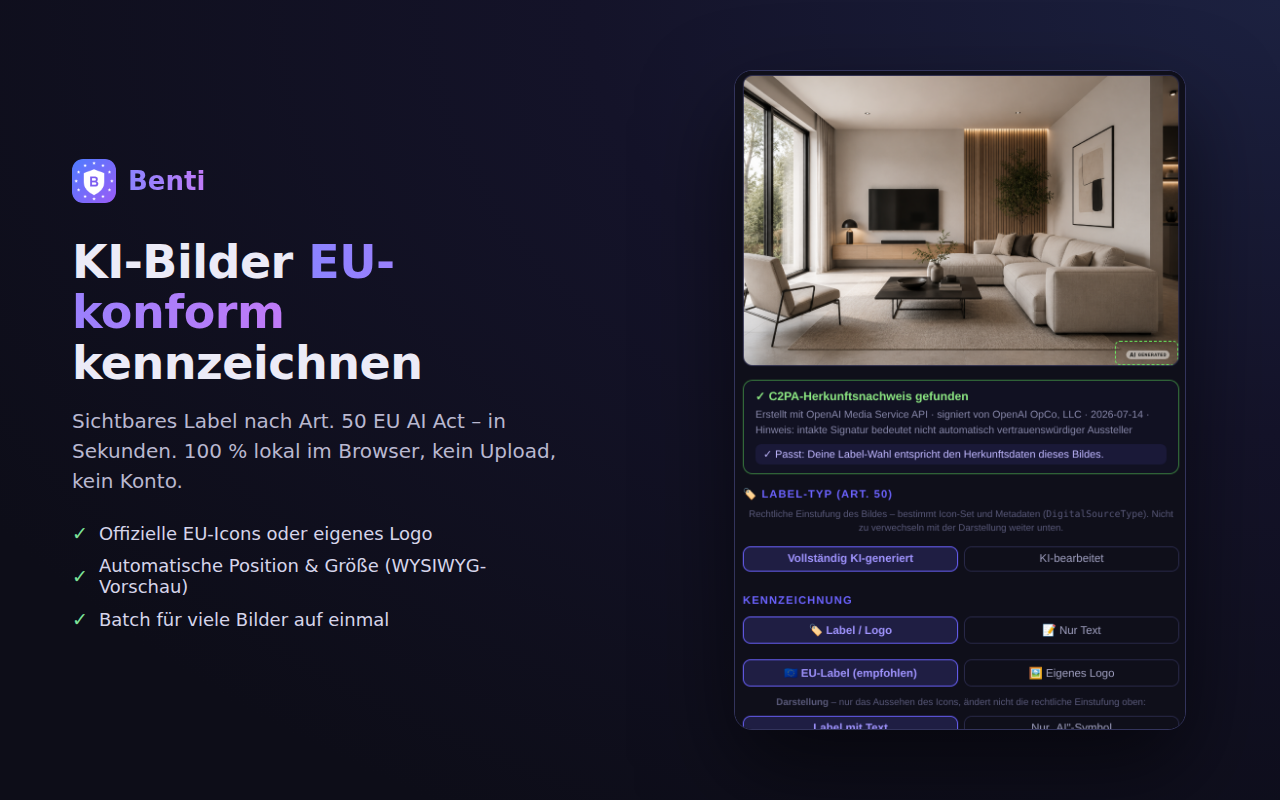
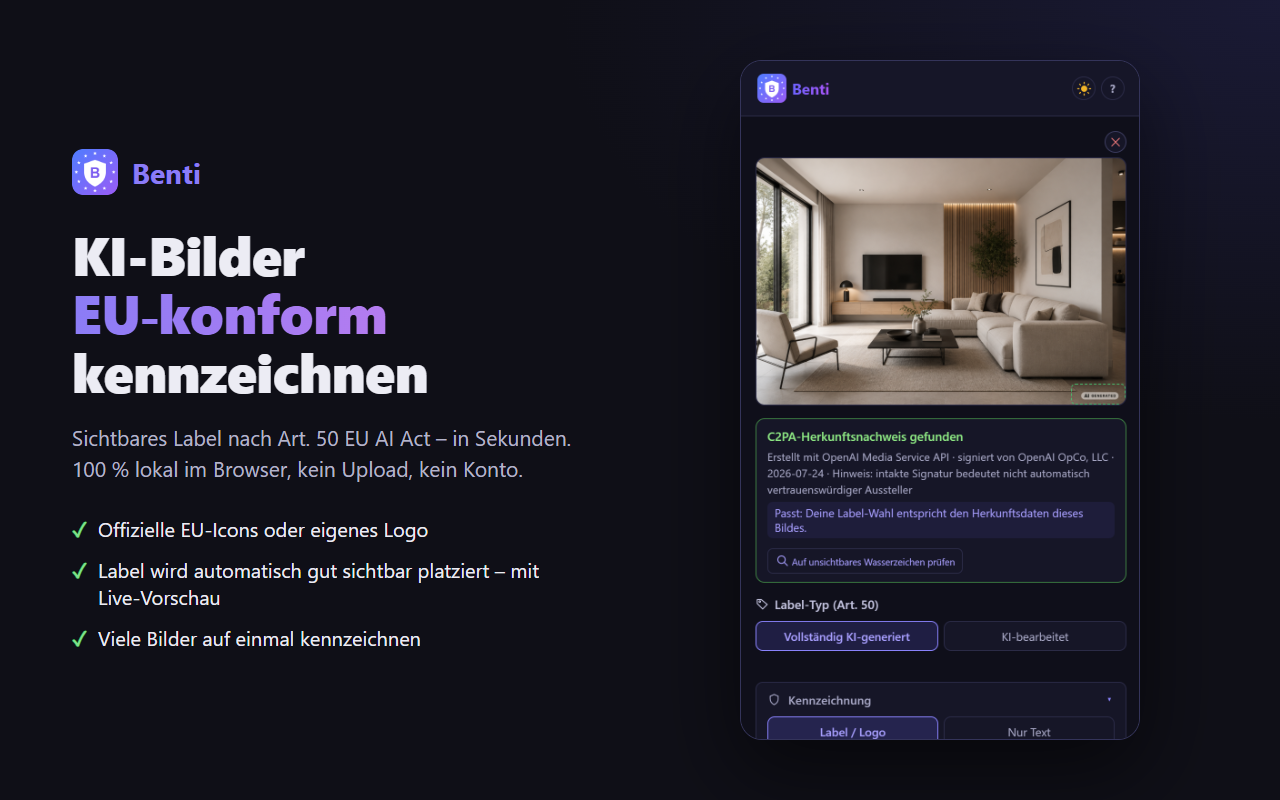
Store-Screenshots neu: aktuelle Oberflaeche, verstaendliche Texte
- Screenshot 1 zeigte noch die alte UI (Emojis, lange Erklaertexte).
  Alle drei neu aus echten Aufnahmen der Extension (echter C2PA-Fund).
- Fachbegriffe raus (WYSIWYG, C2PA/XMP/IPTC, DigitalSourceType) - in den
  Screenshots und in der Store-Beschreibung.
- Vorlage + Render-Skript in docs/marketing/quelle/ (Python + Edge/Chrome).
- "Ab dem 2. August 2026" -> "Seit dem ..." (Datum liegt in der Vergangenheit).

diff --git a/docs/marketing/quelle/store-vorlage.html b/docs/marketing/quelle/store-vorlage.html
@@ -1,0 +1,80 @@
+<!doctype html>
+<html lang="de">
+<head>
+<meta charset="utf-8">
+<title>Benti Store-Screenshot</title>
+<!--
+  Vorlage fuer die Chrome-Web-Store-Screenshots (1280 x 800).
+  Variante per URL-Parameter: store-vorlage.html?s=1 | 2 | 3
+  Rendern: python render-store.py (im selben Ordner)
+-->
+<style>
+  :root { --bg1:#0f0f17; --bg2:#1a1a35; --ink:#ececf4; --muted:#b4b4c8; --acc1:#8b7cf6; --acc2:#b57cf0; --ok:#7ee08a; }
+  * { box-sizing: border-box; margin: 0; padding: 0; }
+  html, body { width: 1280px; height: 800px; overflow: hidden; }
+  body { font-family: "Segoe UI", system-ui, sans-serif; color: var(--ink);
+         background: radial-gradient(1200px 700px at 100% 0%, var(--bg2), transparent 60%), var(--bg1); }
+  .wrap { display: grid; grid-template-columns: 560px 1fr; align-items: center; height: 100%; padding: 0 72px; gap: 40px; }
+  .brand { display: flex; align-items: center; gap: 14px; margin-bottom: 30px; }
+  .brand img { width: 46px; height: 46px; border-radius: 11px; }
+  .brand span { font-size: 28px; font-weight: 700; color: var(--acc1); }
+  h1 { font-size: 54px; line-height: 1.08; font-weight: 800; letter-spacing: -0.5px; margin-bottom: 22px; }
+  h1 em { font-style: normal; background: linear-gradient(90deg, var(--acc1), var(--acc2)); -webkit-background-clip: text; background-clip: text; color: transparent; }
+  .sub { font-size: 21px; line-height: 1.5; color: var(--muted); margin-bottom: 30px; }
+  ul { list-style: none; display: grid; gap: 14px; }
+  li { display: grid; grid-template-columns: 26px 1fr; font-size: 20px; line-height: 1.35; }
+  li::before { content: "✓"; color: var(--ok); font-weight: 700; }
+  .stage { display: flex; justify-content: center; align-items: center; }
+  .panel { width: 400px; height: 680px; overflow: hidden; border-radius: 22px; border: 1px solid #34345a;
+           box-shadow: 0 30px 80px rgba(0,0,0,.55); background: #13131c; }
+  .panel img { width: 400px; display: block; }
+  .panel.kurz { height: auto; }
+  .photo { width: 540px; border-radius: 20px; border: 1px solid #34345a; box-shadow: 0 30px 80px rgba(0,0,0,.55); display: block; }
+  .v { display: none; } body[data-s="1"] .v1, body[data-s="2"] .v2, body[data-s="3"] .v3 { display: contents; }
+</style>
+</head>
+<body>
+<div class="wrap">
+  <div>
+    <div class="brand"><img src="../../../icons/icon128.png" alt=""><span>Benti</span></div>
+
+    <div class="v v1">
+      <h1>KI-Bilder <em>EU&#8209;konform</em> kennzeichnen</h1>
+      <p class="sub">Sichtbares Label nach Art. 50 EU AI Act – in Sekunden. 100&nbsp;% lokal im Browser, kein Upload, kein Konto.</p>
+      <ul>
+        <li>Offizielle EU-Icons oder eigenes Logo</li>
+        <li>Label wird automatisch gut sichtbar platziert – mit Live&#8209;Vorschau</li>
+        <li>Viele Bilder auf einmal kennzeichnen</li>
+      </ul>
+    </div>
+
+    <div class="v v2">
+      <h1>Erkennt <em>KI&#8209;Herkunft</em> automatisch</h1>
+      <p class="sub">Prüft beim Laden, ob ein Bild Herkunftsdaten eines KI-Tools trägt – und schlägt gleich den passenden Label-Typ vor.</p>
+      <ul>
+        <li>Erkennt Herkunftsnachweise z.&nbsp;B. von ChatGPT</li>
+        <li>Passender Label-Typ wird vorgeschlagen</li>
+        <li>Ehrlich: Fehlende Daten heißen nie „kein KI-Bild“</li>
+      </ul>
+    </div>
+
+    <div class="v v3">
+      <h1><em>Sichtbar</em> + maschinenlesbar</h1>
+      <p class="sub">Sichtbares EU-Label im Bild – plus eine unsichtbare KI&#8209;Kennzeichnung in der Datei, die Programme und Plattformen auslesen können.</p>
+      <ul>
+        <li>PNG, JPEG, WebP und SVG</li>
+        <li>Copyright- und Kameradaten bleiben erhalten</li>
+        <li>Nachweis&#8209;Protokoll als Excel&#8209;Liste</li>
+      </ul>
+    </div>
+  </div>
+
+  <div class="stage">
+    <div class="v v1"><div class="panel"><img src="panel-oben.png" alt=""></div></div>
+    <div class="v v2"><div class="panel kurz"><img src="panel-herkunft.png" alt=""></div></div>
+    <div class="v v3"><img class="photo" src="../beispiel-gekennzeichnet.png" alt=""></div>
+  </div>
+</div>
+<script>document.body.dataset.s = new URLSearchParams(location.search).get('s') || '1';</script>
+</body>
+</html>

diff --git a/docs/marketing/quelle/render-store.py b/docs/marketing/quelle/render-store.py
@@ -1,0 +1,52 @@
+#!/usr/bin/env python3
+"""Rendert die drei Store-Screenshots (1280 x 800) aus store-vorlage.html.
+
+Braucht nur Python und Microsoft Edge oder Google Chrome (headless).
+Aufruf (aus diesem Ordner oder vom Repo-Root):  python docs/marketing/quelle/render-store.py
+
+Die Panel-Bilder (panel-oben.png, panel-herkunft.png) sind echte Aufnahmen der
+Extension-Oberflaeche (440 px breit, 2x). Nach UI-Aenderungen neu aufnehmen.
+"""
+import os
+import pathlib
+import shutil
+import subprocess
+import tempfile
+import time
+
+HERE = pathlib.Path(__file__).resolve().parent
+OUT = HERE.parent
+TEMPLATE = HERE / 'store-vorlage.html'
+NAMES = {1: 'store-1-kennzeichnen.png', 2: 'store-2-herkunft.png', 3: 'store-3-formate.png'}
+CANDIDATES = [
+    r'C:\Program Files (x86)\Microsoft\Edge\Application\msedge.exe',
+    r'C:\Program Files\Microsoft\Edge\Application\msedge.exe',
+    r'C:\Program Files\Google\Chrome\Application\chrome.exe',
+    '/Applications/Google Chrome.app/Contents/MacOS/Google Chrome',
+    shutil.which('chromium') or '', shutil.which('google-chrome') or '',
+]
+browser = next((c for c in CANDIDATES if c and os.path.exists(c)), None)
+if not browser:
+    raise SystemExit('Kein Edge/Chrome gefunden.')
+
+for s, name in NAMES.items():
+    # je Bild ein eigenes Profil: ein noch laufender Edge wuerde den Aufruf sonst
+    # uebernehmen und keinen Screenshot schreiben (ignore_cleanup_errors: Lock-Datei)
+    with tempfile.TemporaryDirectory(ignore_cleanup_errors=True) as prof:
+        target = OUT / name
+        if target.exists():
+            target.unlink()
+        subprocess.run([browser, '--headless=new', '--hide-scrollbars', '--no-first-run',
+                        f'--user-data-dir={prof}', '--force-device-scale-factor=1',
+                        '--window-size=1280,800', '--virtual-time-budget=3000',
+                        f'--screenshot={target}', TEMPLATE.as_uri() + f'?s={s}'],
+                       check=True, stdout=subprocess.DEVNULL, stderr=subprocess.DEVNULL)
+        # Edge schreibt die Datei unter Windows teils erst nach dem Rueckkehren
+        for _ in range(100):
+            if target.exists() and target.stat().st_size > 0:
+                break
+            time.sleep(0.2)
+        else:
+            raise SystemExit('Screenshot wurde nicht erzeugt: ' + name)
+        time.sleep(0.5)
+        print('gerendert', target.relative_to(OUT.parent.parent))

diff --git a/docs/STORE-LISTING.md b/docs/STORE-LISTING.md
@@ -19,7 +19,7 @@ Stand: 2026-11-13 (Funktionsumfang v0.7) · Alle Texte sind einreichfertig formu
 
 **Ausführliche Beschreibung:**
 ```
-Ab dem 2. August 2026 verlangt der EU AI Act (Artikel 50), dass KI-generierte
+Seit dem 2. August 2026 verlangt der EU AI Act (Artikel 50), dass KI-generierte
 Inhalte transparent gekennzeichnet werden. Benti macht das für Bilder
 einfach: Bild laden, Label-Typ wählen, fertig.
 
@@ -28,25 +28,25 @@ einfach: Bild laden, Label-Typ wählen, fertig.
   ist, aber das Motiv nicht stört
 ✔ Automatische Schwarz/Weiß-Wahl je nach Bildhelligkeit
 ✔ Eigenes Logo als Alternative zum EU-Icon
-✔ Batch-Verarbeitung für viele Bilder auf einmal
+✔ Viele Bilder auf einmal kennzeichnen
 ✔ Screenshot direkt mit Strg+V einfügen
-✔ Compliance-Protokoll: Jede Kennzeichnung wird lokal dokumentiert und ist
-  als CSV exportierbar – der Audit-Nachweis fällt nebenbei ab
-✔ Herkunfts-Check: Zeigt beim Laden an, ob ein Bild C2PA Content
-  Credentials oder KI-Metadaten trägt – und schlägt den passenden
+✔ Nachweis-Protokoll: Jede Kennzeichnung wird lokal dokumentiert und lässt
+  sich als Excel-Liste exportieren – der Nachweis fällt nebenbei ab
+✔ Herkunfts-Check: Zeigt beim Laden an, ob ein Bild Herkunftsdaten
+  eines KI-Tools trägt (z. B. von ChatGPT) – und schlägt den passenden
   Label-Typ automatisch vor
-✔ Maschinenlesbar: schreibt beim Export den IPTC-"DigitalSourceType" in
-  die Metadaten – vorhandene Angaben wie Copyright und EXIF bleiben erhalten
-✔ PNG, JPEG und WebP mit Qualitätsstufen, DPI-Angabe und Ausgabeziel-
-  Vorgaben (Social, Web, Print, Mobile) inkl. Lesbarkeits-Prüfung
-✔ SVG bleibt Vektor: Das EU-Icon wird als Vektor eingebettet, nichts wird
-  gerastert
+✔ Maschinenlesbar: Zusätzlich zum sichtbaren Label wird eine unsichtbare
+  KI-Kennzeichnung in die Datei geschrieben, die Programme und Plattformen
+  auslesen können – Copyright- und Kameradaten bleiben dabei erhalten
+✔ PNG, JPEG und WebP in wählbarer Qualität – mit Vorgaben für Social
+  Media, Web, Druck und Mobil, damit das Label überall lesbar bleibt
+✔ SVG-Grafiken bleiben in jeder Größe gestochen scharf – samt Label
 ✔ Eigene Dateinamen-Muster (z. B. {name}_{date}) und frei wählbarer
   Ablageordner
 ✔ Team-Vorlagen: Einstellungen als Datei exportieren und an Kolleg:innen
   weitergeben – alle kennzeichnen einheitlich
-✔ Optional (experimentell): unsichtbares Wasserzeichen, das auch das
-  Entfernen der Metadaten übersteht
+✔ Optional (experimentell): unsichtbares Wasserzeichen, das selbst dann
+  erhalten bleibt, wenn die Datei-Informationen entfernt werden
 
 🔒 Datenschutz per Architektur: Alle Berechnungen laufen lokal in Ihrem
 Browser. Kein Bild verlässt jemals Ihren Rechner, kein Konto, keine Werbung,

diff --git a/docs/marketing/README.md b/docs/marketing/README.md
@@ -6,8 +6,14 @@ Fertige Grafiken für die Chrome-Web-Store-Einreichung (Dark-Design).
 | Datei | Zeigt |
 |---|---|
 | `store-1-kennzeichnen.png` | Kernnutzen: Bild geladen + EU-Label-Vorschau + Herkunfts-Check |
-| `store-2-herkunft.png` | Automatische C2PA-/KI-Herkunftserkennung („signiert von OpenAI OpCo, LLC") |
+| `store-2-herkunft.png` | Automatische KI-Herkunftserkennung („signiert von OpenAI OpCo, LLC") |
 | `store-3-formate.png` | Ergebnis mit sichtbarem EU-Label + Formate/Metadaten/Protokoll |
+
+**Neu erzeugen** (13.11.2026 eingeführt): Texte in `quelle/store-vorlage.html` ändern, dann
+`python docs/marketing/quelle/render-store.py` – braucht nur Python + Edge/Chrome.
+`quelle/panel-oben.png` und `quelle/panel-herkunft.png` sind echte Aufnahmen der
+Extension (440 px Side-Panel-Breite, 2-fach) mit echtem C2PA-Fund; nach UI-Änderungen neu aufnehmen.
+Texte bewusst ohne Fachbegriffe (kein C2PA/XMP/IPTC/WYSIWYG) – Zielgruppe sind Nicht-Techniker.
 
 ## Weitere Assets
 | Datei | Zweck |
@@ -18,7 +24,5 @@ Fertige Grafiken für die Chrome-Web-Store-Einreichung (Dark-Design).
 
 ## Hinweise
 - **Store-Icon** (128×128) ist bereits in `icons/icon128.png`.
-- Der C2PA-Nachweis in `store-2` gibt die **echte** Extension-Ausgabe wieder
-  (die WASM-Engine läuft in der headless-Render-Umgebung nicht, daher wurde der
-  bereits verifizierte Text originalgetreu reproduziert).
-- Erzeugt mit `scripts/` bzw. dem Render-Setup; Motiv: eines der drei Originale.
+- Der C2PA-Nachweis in den Screenshots ist die **echte** Ausgabe der Extension (nicht nachgestellt).
+- Motiv: `Wohnzimmer GPT.png` (Original mit intakten C2PA-Metadaten).

diff --git a/README.md b/README.md
@@ -33,7 +33,7 @@ Geplant: **Web-App** (identische Codebasis, GitHub Pages) sowie eine downscale-f
 
 ## Rechtlicher Hinweis
 
-Dieses Tool unterstützt die sichtbare Kennzeichnungspflicht für Deployer (Art. 50 Abs. 4 EU AI Act, gültig ab 02.08.2026). Es ersetzt keine Rechtsberatung und erfüllt keine Provider-Pflichten (Art. 50 Abs. 2, z. B. C2PA-Signierung). Der Anbieter übernimmt keine Gewähr dafür, dass die Nutzung von Benti die Anforderungen des Art. 50 EU AI Act vollständig erfüllt, und keine Verpflichtung, das Tool fortlaufend an Änderungen der Rechtslage anzupassen. Die Prüfung der rechtlichen Korrektheit obliegt stets der Nutzerin bzw. dem Nutzer.
+Dieses Tool unterstützt die sichtbare Kennzeichnungspflicht für Deployer (Art. 50 Abs. 4 EU AI Act, gültig seit 02.08.2026). Es ersetzt keine Rechtsberatung und erfüllt keine Provider-Pflichten (Art. 50 Abs. 2, z. B. C2PA-Signierung). Der Anbieter übernimmt keine Gewähr dafür, dass die Nutzung von Benti die Anforderungen des Art. 50 EU AI Act vollständig erfüllt, und keine Verpflichtung, das Tool fortlaufend an Änderungen der Rechtslage anzupassen. Die Prüfung der rechtlichen Korrektheit obliegt stets der Nutzerin bzw. dem Nutzer.
 
 ## Lizenz
 
